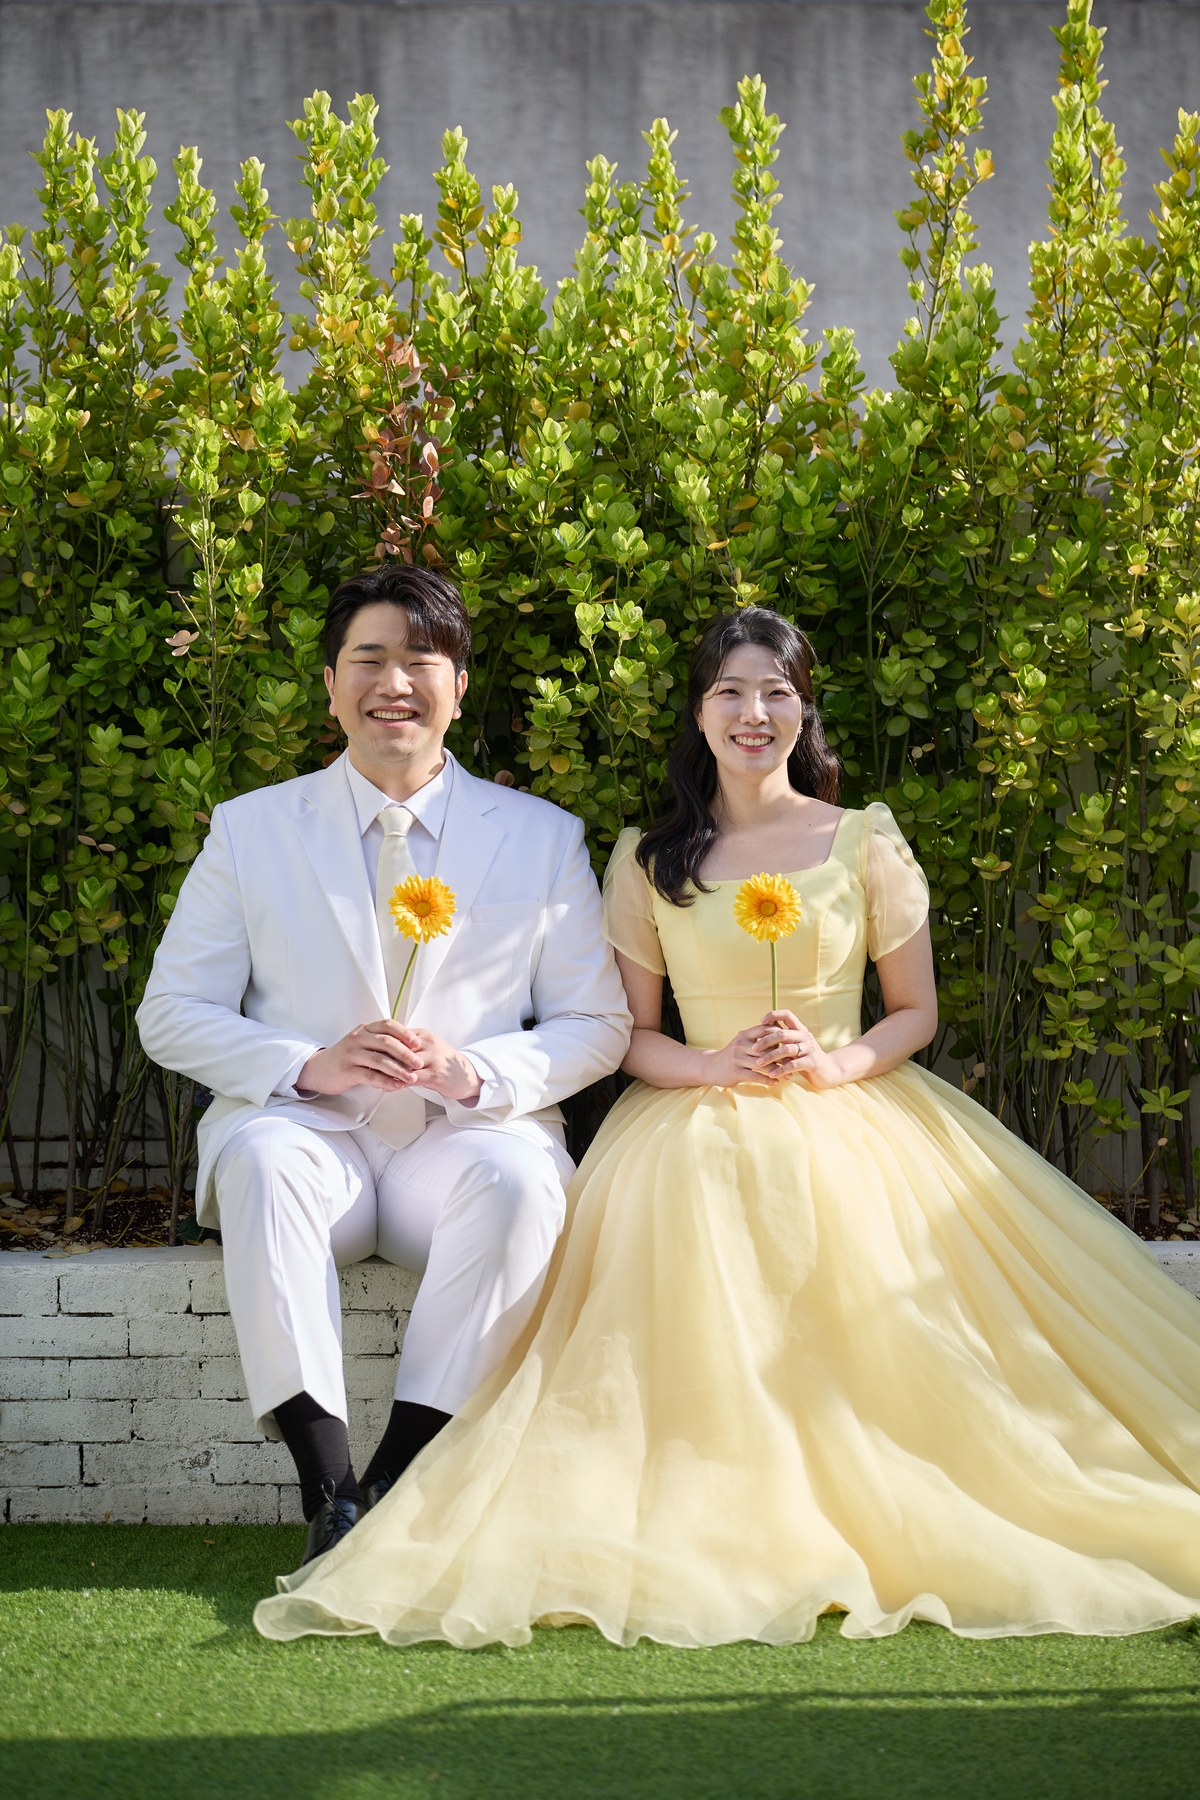
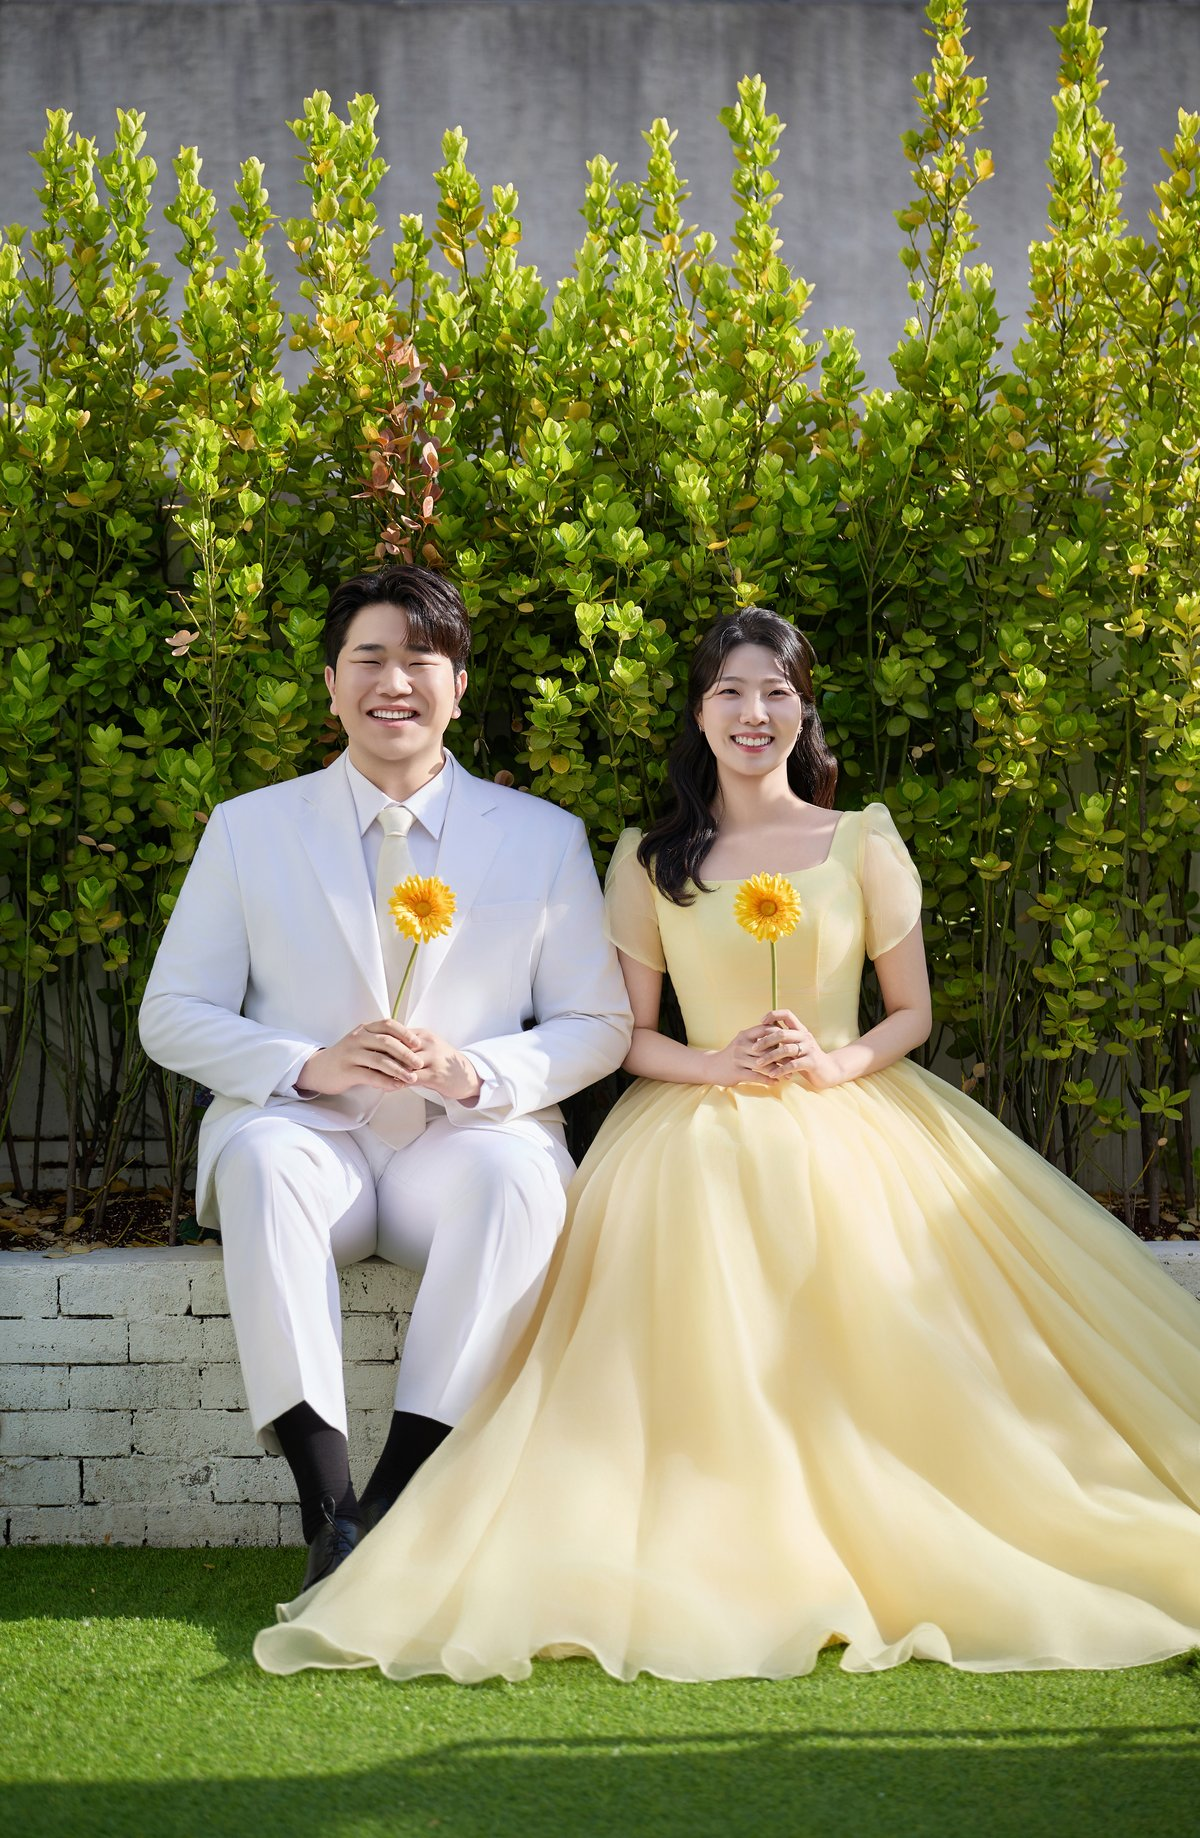
feat: 이름/날짜/장소 요약 섹션 추가, 신랑측 계좌 정보 갱신, 공유 문구 및 가족 호칭 수정

diff --git a/src/data/invitationContent.ts b/src/data/invitationContent.ts
@@ -56,25 +56,25 @@ export const invitationContent: InvitationContent = {
       "서로 다른 길을 걸어온 두 사람이\n이제 한 곳을 바라보며 걸어가려 합니다.\n바쁘시더라도 오셔서 축복해 주시면\n큰 힘이 되겠습니다.",
     groomFamily: {
       parents: "이민섭",
-      role: "의 아들",
+      role: "의 장남",
     },
     brideFamily: {
       parents: "정영철 · 양현숙",
-      role: "의 딸",
+      role: "의 장녀",
     },
   },
   flowerWreathNote: "소중한 마음만 감사히 받겠습니다.\n\n축하 화환은 정중히 사양하오니\n너그러운 양해 부탁드립니다",
   heroImage: "/images/hero-main.jpg",
-  closingImage: "/images/gallery/gallery-14.jpg",
+  closingImage: "/images/closing.jpg",
   accounts: {
     groom: [
-      { who: "신랑 아버지 이민섭", bank: "신한은행", number: "000-000-000000" },
-      { who: "신랑 기한", bank: "국민은행", number: "000000-00-000000" },
+      { relation: "신랑 아버지", name: "이민섭", bank: "하나은행", number: "348-890548-94507" },
+      { relation: "신랑", name: "이기한", bank: "토스뱅크", number: "1001-9271-8184" },
     ],
     bride: [
-      { who: "신부 아버지 정영철", bank: "국민은행", number: "623501-01-445879" },
-      { who: "신부 어머니 양현숙", bank: "국민은행", number: "283-21-0010-170" },
-      { who: "신부 은선", bank: "국민은행", number: "623502-01-394132" },
+      { relation: "신부 아버지", name: "정영철", bank: "국민은행", number: "623501-01-445879" },
+      { relation: "신부 어머니", name: "양현숙", bank: "국민은행", number: "283-21-0010-170" },
+      { relation: "신부", name: "정은선", bank: "국민은행", number: "623502-01-394132" },
     ],
   },
   galleryImages: [

diff --git a/src/components/invitation/InvitationApp.tsx b/src/components/invitation/InvitationApp.tsx
@@ -4,6 +4,7 @@ import { useState } from "react";
 import Envelope from "./Envelope";
 import RevealCard from "./RevealCard";
 import Hero from "./Hero";
+import Summary from "./Summary";
 import Calendar from "./Calendar";
 import Greeting from "./Greeting";
 import Location from "./Location";
@@ -63,6 +64,13 @@ export default function InvitationApp({ content, guestName }: InvitationAppProps
             groomName={content.couple.groomName}
             brideName={content.couple.brideName}
             heroImage={content.heroImage}
+          />
+          <Summary
+            groomName={content.couple.groomName}
+            brideName={content.couple.brideName}
+            dateDisplay={content.weddingDateDisplay}
+            timeDisplay={content.weddingTimeDisplay}
+            venueName={content.venue.name}
           />
           <Greeting
             message={content.greeting.message}

diff --git a/src/components/invitation/Summary.tsx b/src/components/invitation/Summary.tsx
@@ -1,0 +1,31 @@
+import styles from "./Summary.module.css";
+
+interface SummaryProps {
+  groomName: string;
+  brideName: string;
+  dateDisplay: string;
+  timeDisplay: string;
+  venueName: string;
+}
+
+export default function Summary({
+  groomName,
+  brideName,
+  dateDisplay,
+  timeDisplay,
+  venueName,
+}: SummaryProps) {
+  return (
+    <section className={styles.summary}>
+      <div className={styles.names}>
+        <span className={styles.name}>{groomName}</span>
+        <span className={styles.dot} />
+        <span className={styles.name}>{brideName}</span>
+      </div>
+      <p className={styles.date}>
+        {dateDisplay} {timeDisplay}
+      </p>
+      <p className={styles.venue}>{venueName}</p>
+    </section>
+  );
+}

diff --git a/src/components/invitation/Account.tsx b/src/components/invitation/Account.tsx
@@ -47,10 +47,13 @@ function AccountAccordion({
       </div>
       <div className={styles.body}>
         {items.map((account) => (
-          <div className={styles.row} key={account.who}>
+          <div className={styles.row} key={`${account.relation}-${account.name}`}>
             <div>
-              <div className={styles.who}>{account.who}</div>
-              {account.bank} {account.number}
+              <div className={styles.who}>{account.relation}</div>
+              <div className={styles.number}>{account.number}</div>
+              <div className={styles.bankName}>
+                {account.bank} {account.name}
+              </div>
             </div>
             <button
               className={styles.copyBtn}

diff --git a/src/components/invitation/Summary.module.css b/src/components/invitation/Summary.module.css
@@ -1,0 +1,44 @@
+.summary {
+  max-width: 480px;
+  margin: 0 auto;
+  padding: 40px 26px;
+  text-align: center;
+  background: var(--ivory);
+  border-bottom: 1px solid var(--line);
+}
+
+.names {
+  display: flex;
+  align-items: center;
+  justify-content: center;
+  gap: 18px;
+  margin-bottom: 20px;
+}
+
+.name {
+  font-family: "Noto Serif KR", serif;
+  font-size: 26px;
+  font-weight: 700;
+  letter-spacing: 10px;
+  color: var(--rose-deep);
+}
+
+.dot {
+  width: 8px;
+  height: 8px;
+  border-radius: 50%;
+  background: var(--gold);
+  flex-shrink: 0;
+}
+
+.date {
+  font-size: 15px;
+  color: var(--ink);
+  margin: 0 0 4px;
+}
+
+.venue {
+  font-size: 13px;
+  color: var(--ink-soft);
+  margin: 0;
+}

diff --git a/src/app/layout.tsx b/src/app/layout.tsx
@@ -2,7 +2,7 @@ import type { Metadata } from "next";
 import "./globals.css";
 import { invitationContent } from "@/data/invitationContent";
 
-const shareTitle = "이기한 ♥ 정은선 결혼식에 초대합니다";
+const shareTitle = "이기한 ❤ 정은선 결혼식에 초대합니다";
 const shareDescription = `${invitationContent.weddingDateDisplay} ${invitationContent.weddingTimeDisplay}`;
 
 export const metadata: Metadata = {
@@ -16,7 +16,7 @@ export const metadata: Metadata = {
       {
         url: invitationContent.heroImage,
         width: 1200,
-        height: 1800,
+        height: 1838,
         alt: shareTitle,
       },
     ],

diff --git a/src/components/invitation/Account.module.css b/src/components/invitation/Account.module.css
@@ -32,7 +32,7 @@
 }
 
 .itemOpen .body {
-  max-height: 320px;
+  max-height: 420px;
 }
 
 .row {
@@ -46,7 +46,19 @@
 
 .who {
   color: var(--ink-soft);
+  margin-bottom: 4px;
+  font-size: 12.5px;
+}
+
+.number {
+  color: var(--ink);
+  font-size: 15px;
+  font-weight: 600;
   margin-bottom: 2px;
+}
+
+.bankName {
+  color: var(--ink-soft);
   font-size: 12.5px;
 }
 

diff --git a/src/components/invitation/Hero.tsx b/src/components/invitation/Hero.tsx
@@ -16,7 +16,7 @@ export default function Hero({ groomName, brideName, heroImage }: HeroProps) {
           src={heroImage}
           alt={`${groomName} ${brideName} 커플 사진`}
           width={1200}
-          height={1800}
+          height={1838}
           sizes="(max-width: 480px) 100vw, 480px"
           className={styles.image}
           priority

diff --git a/src/components/invitation/Footer.tsx b/src/components/invitation/Footer.tsx
@@ -18,8 +18,8 @@ export default function Footer({
         <Image
           src={closingImage}
           alt={`${groomName} ${brideName} 마무리 인사 사진`}
-          width={3548}
-          height={4601}
+          width={1200}
+          height={1586}
           sizes="(max-width: 480px) 100vw, 480px"
           className={styles.image}
         />

diff --git a/src/types/invitation.ts b/src/types/invitation.ts
@@ -4,7 +4,8 @@ export interface FamilyMember {
 }
 
 export interface BankAccount {
-  who: string;
+  relation: string;
+  name: string;
   bank: string;
   number: string;
 }

diff --git a/src/components/invitation/Hero.module.css b/src/components/invitation/Hero.module.css
@@ -2,6 +2,7 @@
   background: var(--ivory);
   max-width: 480px;
   margin: 0 auto;
+  border-bottom: 1px solid var(--line);
 }
 
 .imageWrap {
